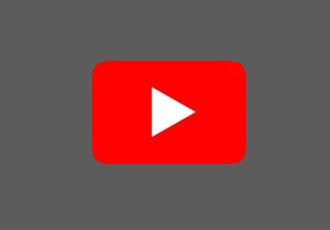
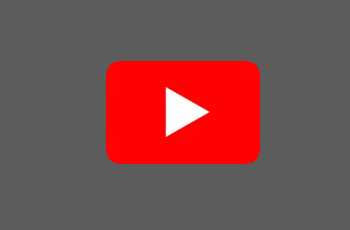
Bug fix and modernized interface

Changed region(s): [[0.4545, 0.3652, 0.6061, 0.6087], [0.2727, 0.2435, 0.3333, 0.7304]]

diff --git a/main.py b/main.py
@@ -11,44 +11,67 @@ class Video:
     def __init__(self, url):
         self.url = url
         self.yt = YouTube(url)
-    
+
+    @staticmethod
+    def format_title(title):
+        '''Turns the video title valid to Windows OS filenames'''
+        new = []
+        for char in title: # Separate only valid characters and put on the list
+            if char == '|':
+                new.append('-')
+            elif char.lower() in (r'aáàãâbcdeéèêfghiíìjklmnopqrstuvwxyz0987654321([{}])/$& ~-".,:;?'):
+                new.append(char)
+        new = ''.join(new) # Convert list on a string
+        if len(new) <= 50: # 50 charactere is a good lenght to filenames
+            return new
+        else:
+            return new[:51]+'...' # Return only the first 50 characteres to bypass Filename Lenght eror
+
     def download(self, quality, path):
         '''Download the video in High Quality, Low Quality or MP3'''
         global window
         # Change the buttons to DISABLED buttons
-        window['-HQ-'].hide_row()
-        window['-LQ-'].hide_row()
-        window['-MP3-'].hide_row()
-        window['-disHQ-'].unhide_row()
-        window['-disLQ-'].unhide_row()
-        window['-disMP3-'].unhide_row()
-        if quality == '-MP3-':
-            '''The button pressed is Audio MP3, so download as audio .mp4 and convert to .mp3'''
-            audio = self.yt.streams.get_audio_only()
-            title = str(audio.title)
-            audio.download(path, filename=f'{title}.mp4') # Download in the specified folder (path)
-            mp3 = mp.AudioFileClip(f'{path}/{title}.mp4') # Set the .mp4 audio
-            time.sleep(0.5)
-            mp3.write_audiofile(f'{path}/{title}.mp3') # Create a .mp3
-            os.remove(f'{path}/{title}.mp4') # Delete the .mp4
-        elif quality == '-HQ-':
-            '''Select the highest resolution and download them'''
-            video = self.yt.streams.get_highest_resolution()
-            title = str(video.title)
-            video.download(path, filename=f'{title} [HQ].mp4')
-        elif quality == '-LQ-':
-            '''Select the lowest resolution and download them'''
-            video = self.yt.streams.get_lowest_resolution()
-            title = str(video.title)
-            video.download(path, filename=f'{title} [LQ].mp4')
-        # Change the buttons to ENABLED buttons again
-        window['-HQ-'].unhide_row()
-        window['-LQ-'].unhide_row()
-        window['-MP3-'].unhide_row()
-        window['-disHQ-'].hide_row()
-        window['-disLQ-'].hide_row()
-        window['-disMP3-'].hide_row()
-        print(f'Download Done!')
+        try:
+            window['-HQ-'].hide_row()
+            window['-LQ-'].hide_row()
+            window['-MP3-'].hide_row()
+            window['-disHQ-'].unhide_row()
+            window['-disLQ-'].unhide_row()
+            window['-disMP3-'].unhide_row()
+            filename = self.format_title(self.yt.title[:])
+            window['-status-'].update('Downloading...')
+            if quality == '-MP3-':
+                '''The button pressed is Audio MP3, so download as audio .mp4 and convert to .mp3'''
+                video = self.yt.streams.get_audio_only()
+                video.download(path, filename=f'{filename}.mp4') # Download in the specified folder (path)
+                window['-status-'].update('Converting to mp3...')
+                mp3 = mp.AudioFileClip(f'{path}/{filename}.mp4') # Set the .mp4 audio
+                time.sleep(0.5)
+                mp3.write_audiofile(f'{path}/{filename}.mp3', verbose=False) # Create a .mp3
+                time.sleep(0.5)
+                os.remove(f'{path}/{filename}.mp4') # Delete the .mp4
+                window['-status-'].update('Download sucessful! [MP3]')
+            elif quality == '-HQ-':
+                '''Select the highest resolution and download them'''
+                video = self.yt.streams.get_highest_resolution()
+                video.download(path, filename=f'{filename} [HQ].mp4')
+                window['-status-'].update('Download sucessful! [HQ]')
+            elif quality == '-LQ-':
+                '''Select the lowest resolution and download them'''
+                video = self.yt.streams.get_lowest_resolution()
+                video.download(path, filename=f'{filename} [LQ].mp4')
+                window['-status-'].update('Download sucessful! [HQ]')
+        except PermissionError:
+            window['-status-'].update('Permission Error! You have to give admin permission to save in that folder!')
+        finally:
+            # Change the buttons to ENABLED buttons again
+            window['-disHQ-'].hide_row()
+            window['-disLQ-'].hide_row()
+            window['-disMP3-'].hide_row()
+            window['-HQ-'].unhide_row()
+            window['-LQ-'].unhide_row()
+            window['-MP3-'].unhide_row()
+        
 
 
 def main_window():
@@ -64,24 +87,25 @@ def main_window():
     ]
     # Space to show the thumbnail
     in_column2 = [
-        [sg.Image(source='thumb.png', key='-thumb-', size=(330, 230))]
+        [sg.Image(source='thumb.png', key='-thumb-', size=(350, 230), pad=0)]
     ]
     # Layout for the Frame (Select the destination folder)
     select_folder = [
         [
             sg.Text(size=(50, 1), key='-folder-', border_width=0), 
-            sg.Button(button_text='Browse', key='-select-', border_width=0)
+            sg.Button(button_text='Browse', key='-path-', border_width=0)
         ]
     ]
     # Main layout
     layout = [
-        [sg.Image('logo.png', size=(480, 100))],
+        [sg.Image('logo.png', size=(480, 100), pad=0)],
         [
             sg.Input(size=(61, 1), key='-url-', border_width=0), 
             sg.Button(button_text='Done!', key='-paste-', border_width=0, bind_return_key=True)
         ],
-        [sg.Column(layout=in_column1), sg.Column(layout=in_column2)],
         [sg.Text(key='-title-', size=(59, 1), justification='center')],
+        [sg.Column(layout=in_column1, pad=0), sg.Column(layout=in_column2, pad=0)],
+        [sg.Text(key='-status-', size=(59, 1), justification='center')],
         [sg.Frame(title='Destination folder', title_location='n', layout=select_folder)],
         [sg.Text('Developed by Ezequiel Almeida', size=(60, 1), justification='center', text_color='grey')]
     ]
@@ -92,9 +116,12 @@ def main_window():
 def set_thumbnail_and_title(video):
     '''Show thumbnail image and title on the interface'''
     video_url = video.url
-    video_title = video.yt.title
+    if len(video.yt.title) > 67:
+        video_title = video.yt.title[:66] + '...'
+    else:
+        video_title = video.yt.title
     download_thumbnail(video_url)
-    window['-thumb-'].update(source='temp.png', size=(330, 230))
+    window['-thumb-'].update(source='temp.png', size=(350, 230))
     window['-title-'].update(video_title)
 
 
@@ -139,8 +166,10 @@ while True:
     event, values = window.Read()
     if event == sg.WIN_CLOSED: # If the user closes the window
         break
-    elif event == '-select-': # If the user click on the Browse button
-        path = sg.PopupGetFolder(no_window=True, message='')
+    elif event == '-path-': # If the user click on the Browse button
+        new_path = sg.PopupGetFolder(no_window=True, message='')
+        if new_path != '':
+            path = new_path
     elif event == '-paste-': # If the user click on the Paste button
         if values['-url-'] == '':
             url = sg.clipboard_get()
